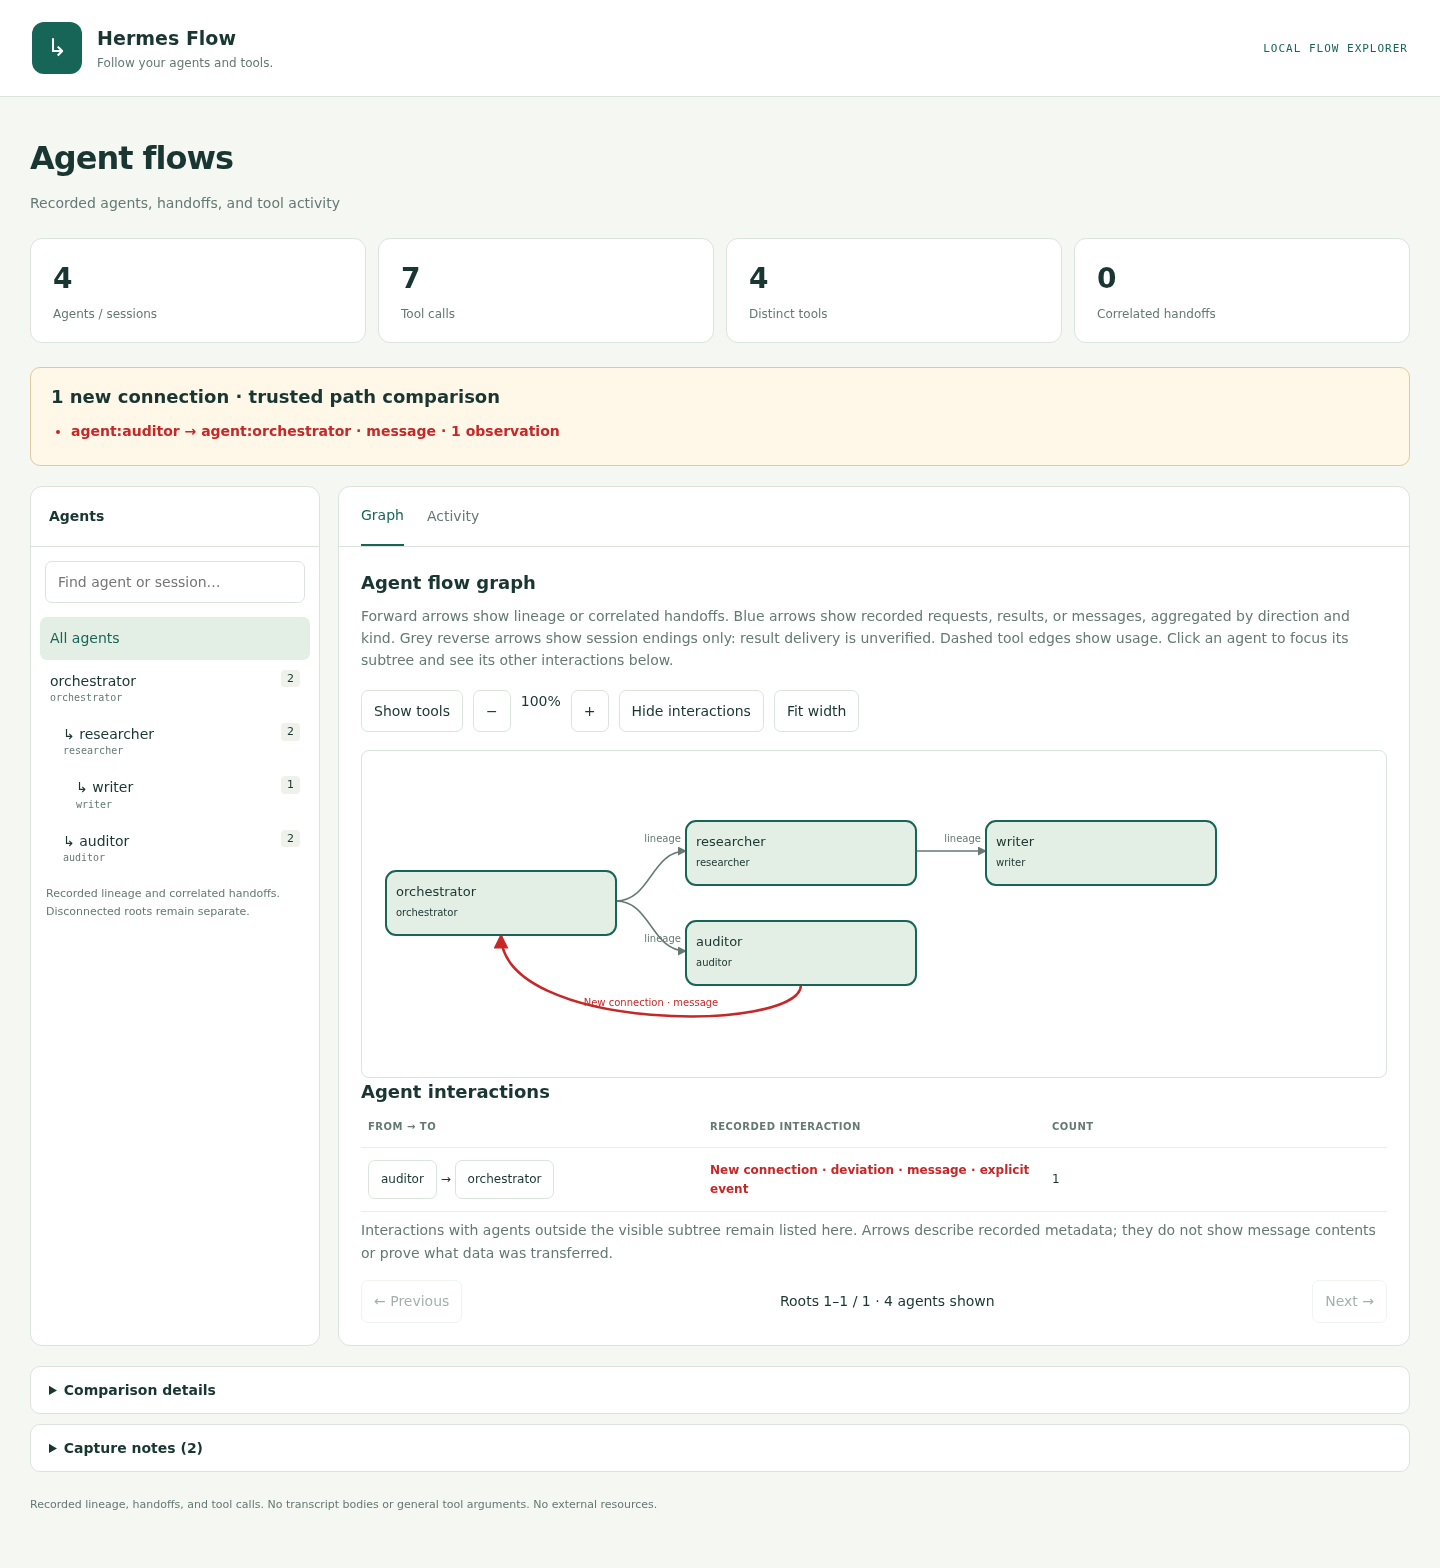
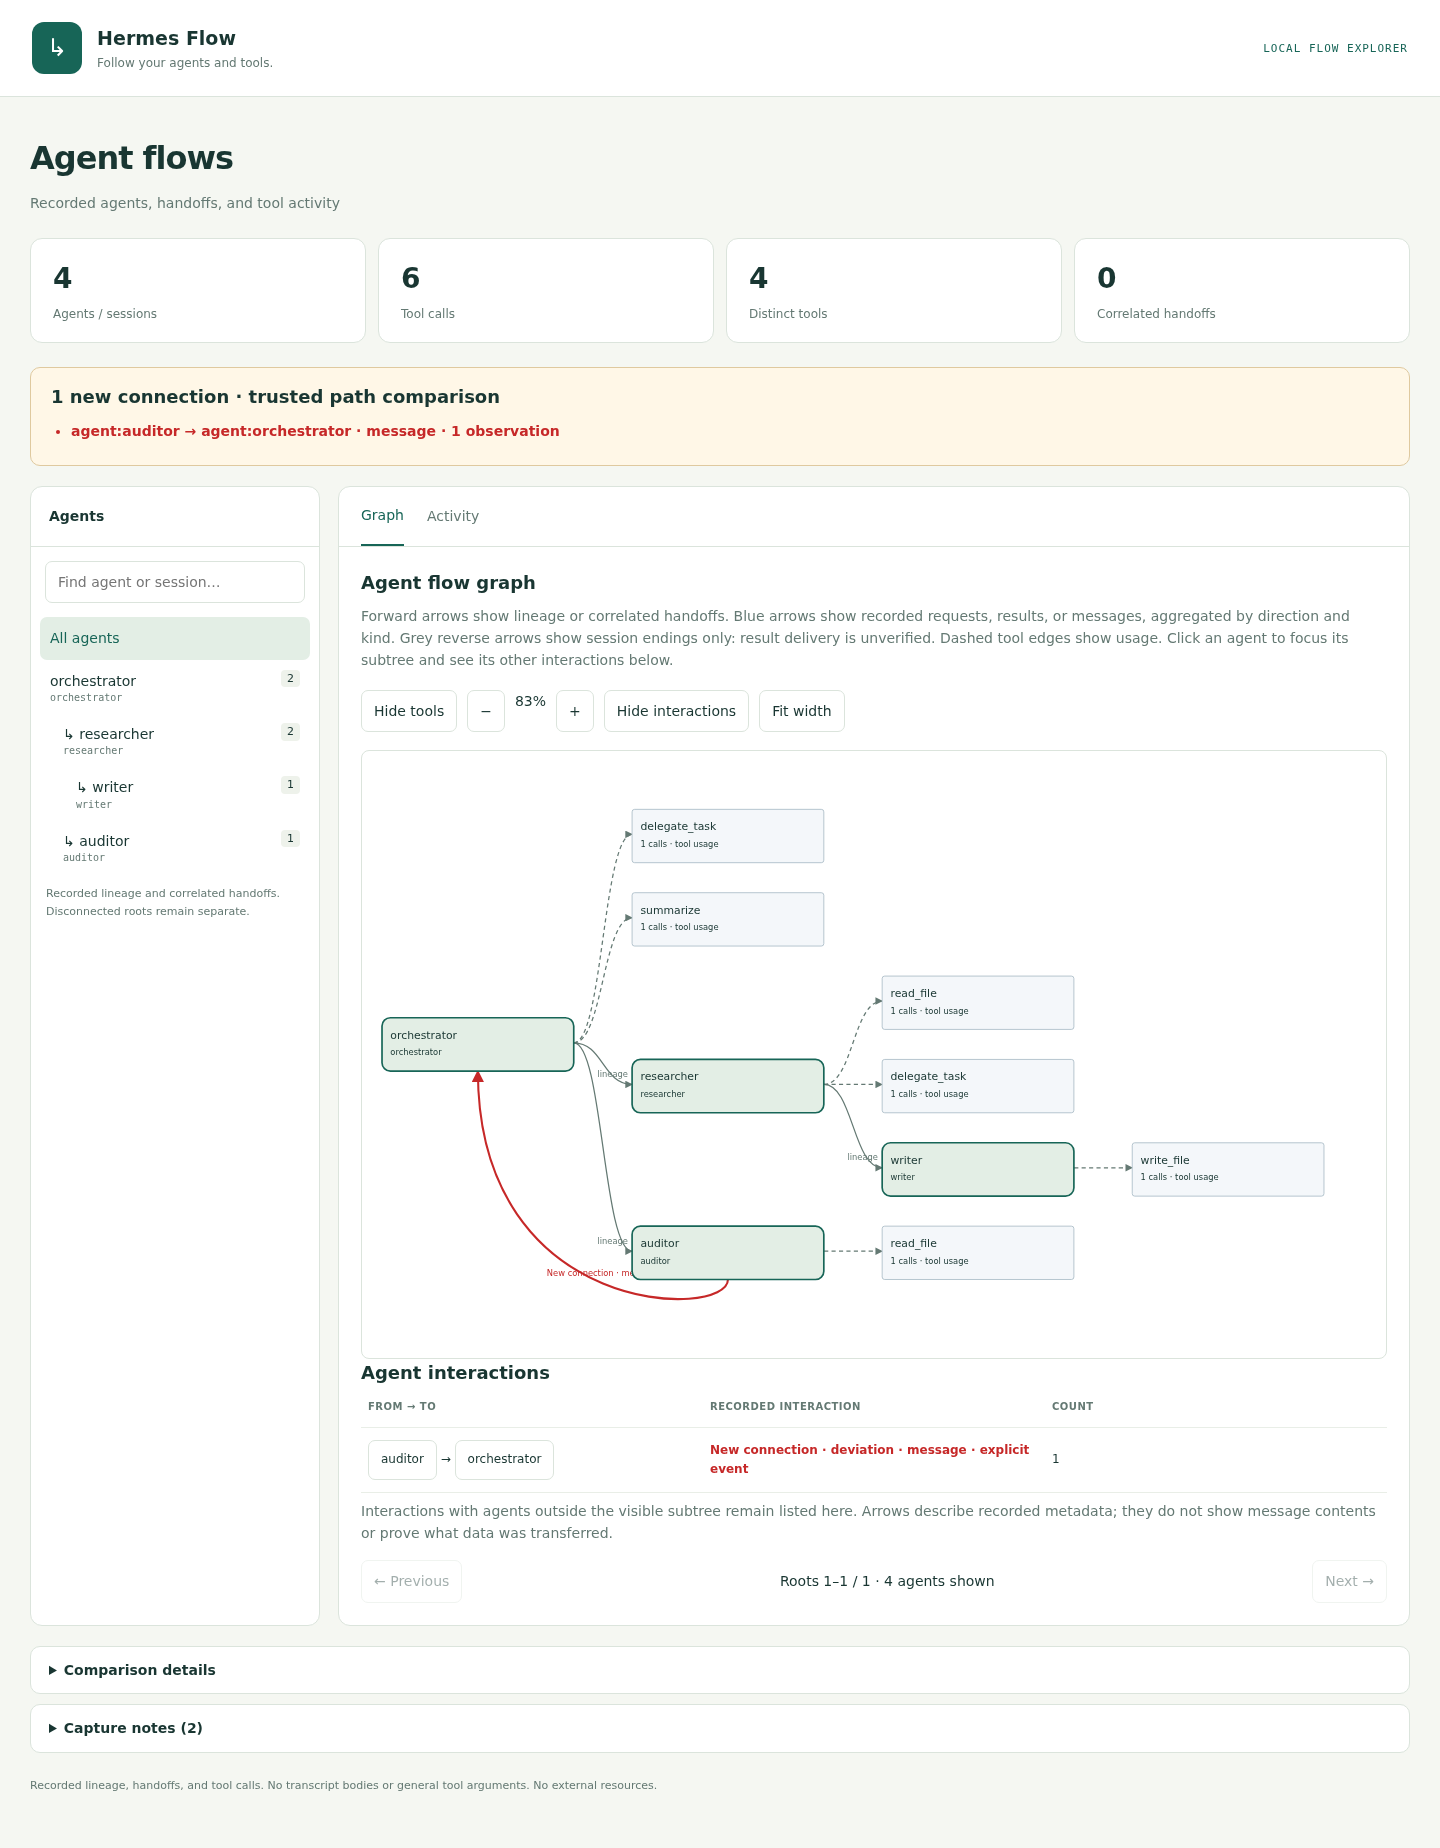
update readme

diff --git a/tests/browser_smoke.py b/tests/browser_smoke.py
@@ -32,7 +32,7 @@ def main():
         assert not {"status", "ideal", "findings"} & payload.keys()
         page.get_by_role('button', name='Hide tools', exact=True).click()
         page.get_by_role('button', name='Fit width', exact=True).click()
-        page.screenshot(path='/tmp/hermes-flow-stage1.png', full_page=True)
+        page.screenshot(path='/tmp/hermes-flow-browser-smoke.png', full_page=True)
         page.locator('[data-node-id="orchestrator-researcher"]').click()
         assert page.locator('[data-node-type="agent"]').count() == 3
         page.get_by_role('button', name='Show tools', exact=True).click()

diff --git a/README.md b/README.md
@@ -25,6 +25,10 @@ The second view shows a different deviation: an auditor using a new
 Reports show new connections above the graph. Capture notes and baseline
 details stay collapsed below it.
 
+Both screenshots keep tool nodes visible: the first contains six ordinary
+tool calls plus a separate red message edge, while the second contains seven
+tool calls, including the new browser connection.
+
 ## Reconstruct existing Hermes history
 
 This is the core workflow: install the plugin, then inspect sessions that are
@@ -58,7 +62,7 @@ Once this repository is published and accessible to the installer, users can
 install it directly from Git:
 
 ```bash
-hermes plugins install OWNER/REPO --enable
+hermes plugins install rewanthtammana/hermes-flow --enable
 ```
 
 The root `plugin.yaml` supports native Git installation. See the
@@ -169,9 +173,16 @@ tool_rows = rows + [{
     "status": "ok",
 }]
 for name, example in (("message", message_rows), ("tool", tool_rows)):
-    Path(f"example-trusted-paths-{name}.html").write_text(
-        render(compare(observe(example), read(baseline_path), baseline_path))
-    )
+    report = compare(observe(example), read(baseline_path), baseline_path)
+    if name == "message":
+        # Keep the message deviation in the interaction view without counting
+        # its carrier row as an additional tool call in this illustration.
+        report["events"] = [event for event in report["events"]
+                            if event.get("call_id") != "auditor-back"]
+        for agent in report["agents"]:
+            agent["calls"] = sum(event["session"] == agent["id"]
+                                  for event in report["events"])
+    Path(f"example-trusted-paths-{name}.html").write_text(render(report))
 PY
 ```
 

diff --git a/docs/PUBLISHING.md b/docs/PUBLISHING.md
@@ -1,8 +1,9 @@
 # Publish as a Hermes plugin
 
 This folder is a standalone native Hermes plugin project. Publish its contents
-as the root of your plugin repository, or retain it as a `stage1` subdirectory
-and use that subdirectory in install/catalog references.
+as the root of your plugin repository. There is no `stage1` directory in this
+checkout; that name applies only if you later embed the plugin under a
+subdirectory of another repository.
 
 ## Validate and distribute
 
@@ -15,14 +16,13 @@ hermes plugins doctor . --ci
 Push the source to your chosen repository. Users can then run:
 
 ```bash
-hermes plugins install OWNER/REPO --enable
+hermes plugins install rewanthtammana/hermes-flow --enable
 hermes flow --open
 ```
 
-For a subdirectory distribution, use `OWNER/REPO/stage1`. No PyPI upload is
-required for Git-based Hermes installation. Do not publish run captures, private
-session metadata, virtual environments, or bytecode. The example report in this
-project is synthetic and labeled accordingly.
+No PyPI upload is required for Git-based Hermes installation. Do not publish
+run captures, private session metadata, virtual environments, or bytecode. The
+example report in this project is synthetic and labeled accordingly.
 
 Before tagging a release, run the full CI matrix and verify a clean-profile
 installation. Contributors can use `bash scripts/install-local.sh`; it validates
